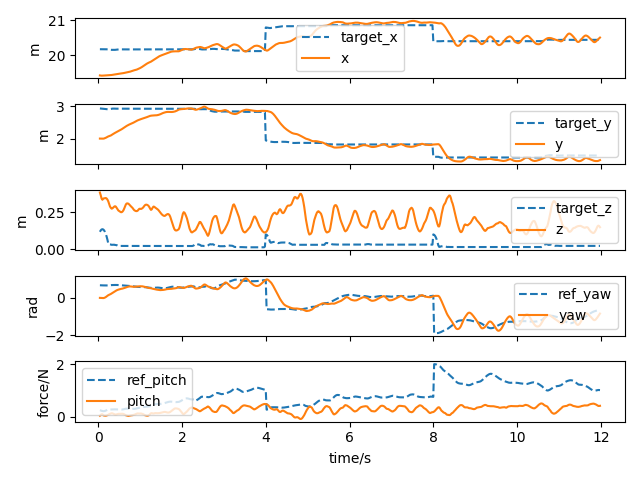
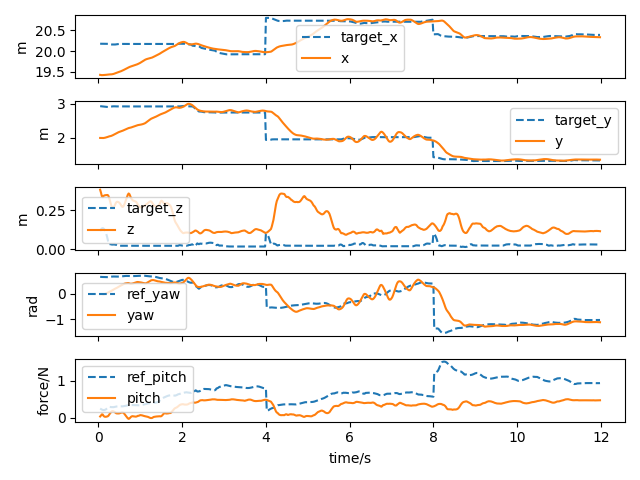
adjust reward

diff --git a/legged_gym/legged_gym/envs/go1g/go1gb_config.py b/legged_gym/legged_gym/envs/go1g/go1gb_config.py
@@ -124,18 +124,18 @@ class Go1GBRoughCfg( LeggedRobotCfg ):
         class scales:
             # tracking rewards
             # tracking_goal_vel = 1.5
-            tracking_goal_pos = 1.5
+            tracking_goal_pos = 0.5 # 1.5 for approach else 0.5
             # tracking_yaw = 0.5  # 0.5
             # tracking_pitch = 0.5  # 0.5
             # tracking_gripper = 0.5
 
             # fit ground truth data
-            fit_truth = 0.5  # 2.5 for approach else 0.5
+            fit_truth = 0.5*0  # 2.5 for approach else 0.5
 
             # pickup rewards not applicable for approaching
             pickup_box = 3
             box_height = 2
-            box_vel = 2*0
+            box_vel = 2
 
             # regularization rewards
             # lin_vel_z = -1.0
@@ -203,7 +203,7 @@ class Go1GBRoughCfgPPO( LeggedRobotCfgPPO ):
     class runner( LeggedRobotCfgPPO.runner ):
         run_name = ''
         experiment_name = 'rough_a1'
-        resume = True
+        resume = False
         max_iterations = 50000 # number of policy updates 50000
 
     class estimator( LeggedRobotCfgPPO.estimator):

diff --git a/legged_gym/legged_gym/scripts/play.py b/legged_gym/legged_gym/scripts/play.py
@@ -122,7 +122,7 @@ def play(args):
 
     # load policy
     train_cfg.runner.resume = True
-    ppo_runner, train_cfg, log_pth = task_registry.make_alg_runner(log_root = log_pth, env=env, name=args.task, args=args, train_cfg=train_cfg, model_name_include="model", return_log_dir=True)
+    ppo_runner, train_cfg, log_pth = task_registry.make_alg_runner(log_root = log_pth, env=env, name=args.task, args=args, train_cfg=train_cfg, model_name_include="model_400.", return_log_dir=True)
     
     if args.use_jit:
         path = os.path.join(log_pth, "traced")
